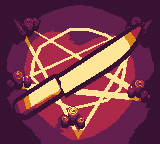
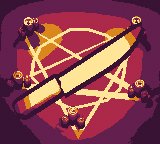
Hands and stuff

diff --git a/src/game.js b/src/game.js
@@ -19,14 +19,21 @@ const ItemList = [
     {
         Name: "Knife",
         Image: Graphics.ItemKnife.Image,
-        Value: 20,
+        Value: 15,
         Unlocked: false,
         Blocked: false
     },
     {
         Name: "Hand",
-        Image: Graphics.ItemUnknown.Image,
-        Value: 30,
+        Image: Graphics.ItemHand.Image,
+        Value: 20,
+        Unlocked: false,
+        Blocked: false
+    },
+    {
+        Name: "Book",
+        Image: Graphics.ItemBook.Image,
+        Value: 15,
         Unlocked: false,
         Blocked: false
     }
@@ -165,6 +172,24 @@ export class Game {
                 this.state = Game_State.Main;
                 this.screenShake = 1000;
                 item.Blocked = true;
+                return;
+            } else if (this.stage === 12 && item.Name === "Hand") {
+                this.stage++;
+                this.state = Game_State.Main;
+                this.screenShake = 1000;
+                item.Blocked = true;
+                this.newItem = 3000;
+                ItemList[4].Unlocked = true;
+                this.devotionCurrent += item.Value;
+                return;
+            } else if (this.stage === 13 && item.Name === "Book") {
+                this.stage++;
+                this.state = Game_State.Main;
+                this.screenShake = 1000;
+                item.Blocked = true;
+                //this.newItem = 3000;
+                //ItemList[4].Unlocked = true;
+                this.devotionCurrent += item.Value;
                 return;
             }
         }

diff --git a/src/graphics.js b/src/graphics.js
@@ -52,6 +52,14 @@ export const Graphics = {
         {
             Paths: ["assets/stages/stage_12_1.png", "assets/stages/stage_12_2.png"],
             Images: []
+        },
+        {
+            Paths: ["assets/stages/stage_13_1.png", "assets/stages/stage_13_2.png"],
+            Images: []
+        },
+        {
+            Paths: ["assets/stages/stage_14_1.png", "assets/stages/stage_14_2.png"],
+            Images: []
         }
     ],
 
@@ -114,6 +122,14 @@ export const Graphics = {
         Path: "assets/knife.png",
         Image: new Image()
     },
+    ItemHand: {
+        Path: "assets/hand.png",
+        Image: new Image()
+    },
+    ItemBook: {
+        Path: "assets/book.png",
+        Image: new Image()
+    },
     ItemUnknown: {
         Path: "assets/unknown.png",
         Image: new Image()
@@ -146,6 +162,8 @@ Graphics.Stage.forEach(stage => {
     "ItemCandle",
     "ItemMatch",
     "ItemKnife",
+    "ItemHand",
+    "ItemBook",
     "ItemUnknown"
 ].forEach(name => {
     Graphics[name].Image.src = Graphics[name].Path;
